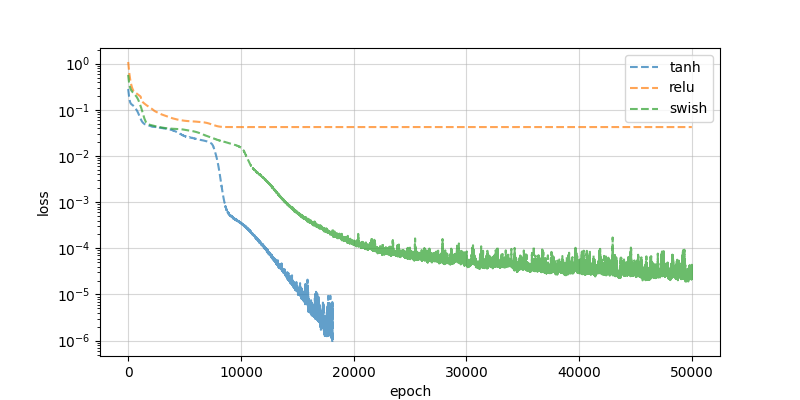
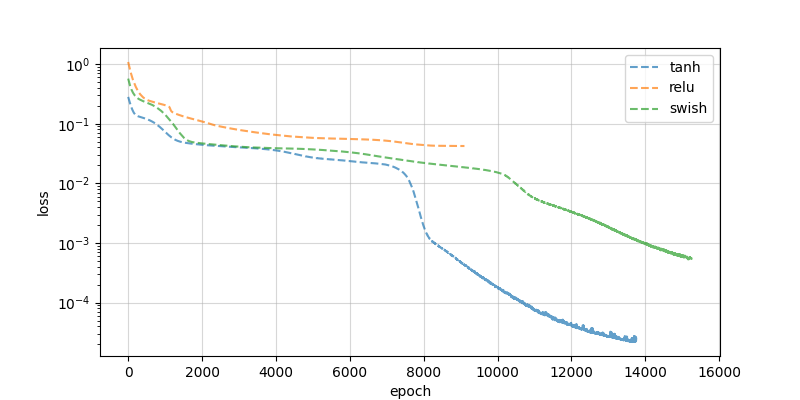
update

diff --git a/00_tf2/main.py b/00_tf2/main.py
@@ -35,7 +35,7 @@ def main():
     n_epc  = int(5e4)
     n_btc  = -1
     c_tol  = 1e-6
-    es_pat = 10
+    es_pat = 100
 
     # prepare data
     x = np.linspace(xmin, xmax, nx)
